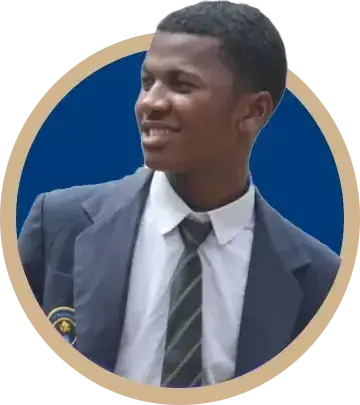
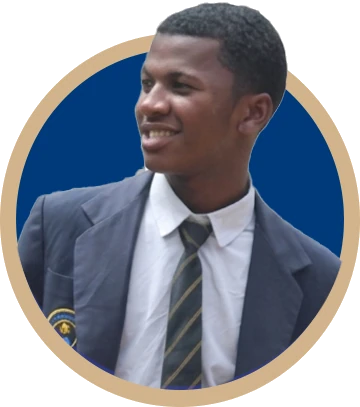
ignorerImage

diff --git a/src/css/style.css b/src/css/style.css
@@ -5,5 +5,6 @@
     background-color: #003366;
     display: flex;
     align-items: center;
-    border-bottom: #d2b48c 2px solid;
+    border-bottom: #d2b48c 5px solid;
+    justify-content: space-between;
 }

diff --git a/src/includes/header.php b/src/includes/header.php
@@ -9,7 +9,7 @@
 
 <body>
     <nav class="navBar" id="mainNav">
-        <img src="..//Image//profilweb.webp" alt=" jacksonCamilleProfil" id="navProfil">
+        <img src="..//icon//github.webp" alt=" jacksonCamilleProfil" id="navProfil">
         <ul id="menu">
             <li>Acceuil</li>
             <li>A propos</li>
